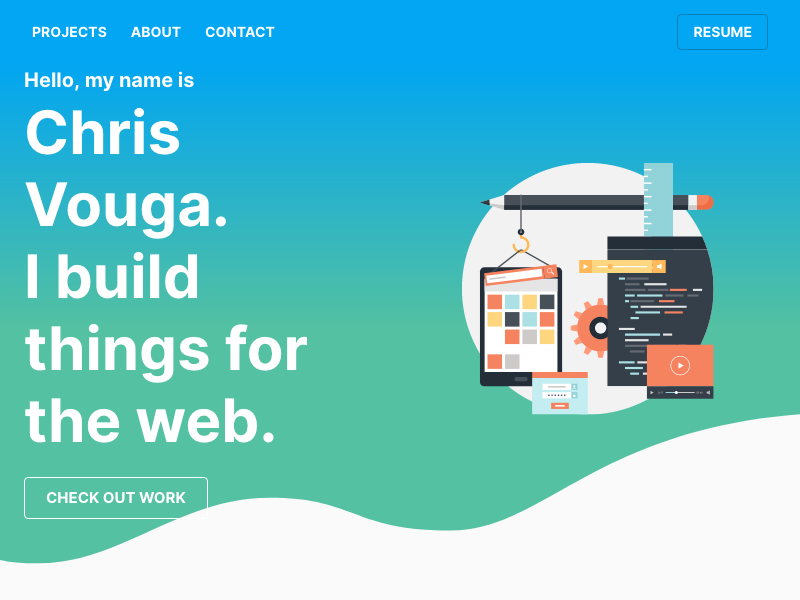
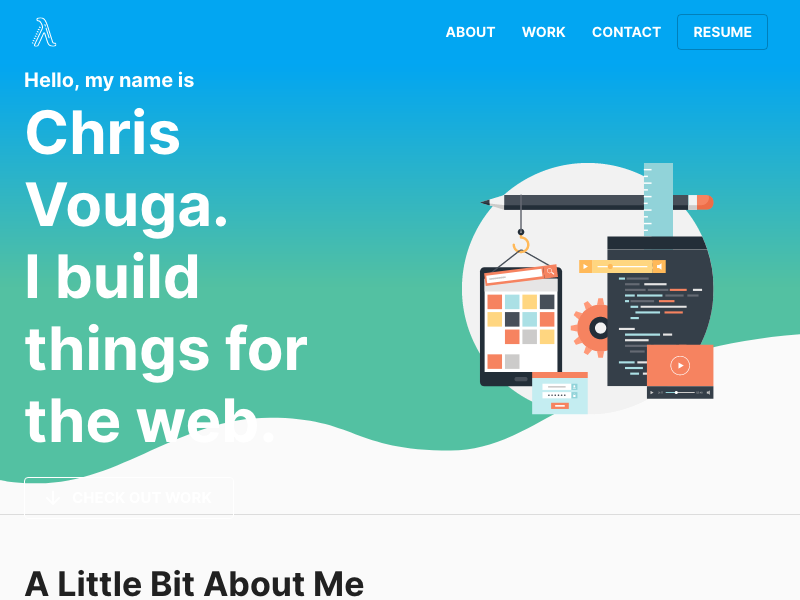
seperated hero section and wave and new screen shots

diff --git a/src/components/sections/Hero.tsx b/src/components/sections/Hero.tsx
@@ -10,6 +10,7 @@ import {
 import clsx from "clsx";
 import React from "react";
 import ArrowDownwardIcon from "@material-ui/icons/ArrowDownward";
+import { Section } from "../section";
 const themeToFill = (theme: Theme) =>
   theme.palette.background.default
     //why? "#" is a reserved character in a url
@@ -25,7 +26,13 @@ const useStyles = makeStyles((theme) => ({
     fontWeight: "bold",
     color: "#fff",
   },
-  root: {
+  wave: {
+    zIndex: -1,
+    position: "absolute",
+    top: 0,
+    left: 0,
+    width: "100%",
+    height: "80vh",
     background: `
       url("${createBackgroundUrl(theme)}")
       no-repeat bottom,
@@ -65,8 +72,9 @@ export const Hero = () => {
   const classes = useStyles();
 
   return (
-    <Box className={classes.root}>
-      <Container maxWidth="lg" className={classes.content}>
+    <React.Fragment>
+      <Box className={classes.wave} />
+      <Section>
         <Grid container direction="row" alignItems="center">
           <Grid item sm={6}>
             <Typography
@@ -108,7 +116,7 @@ export const Hero = () => {
         </Grid>
 
         <Box className={classes.gutter} />
-      </Container>
-    </Box>
+      </Section>
+    </React.Fragment>
   );
 };
